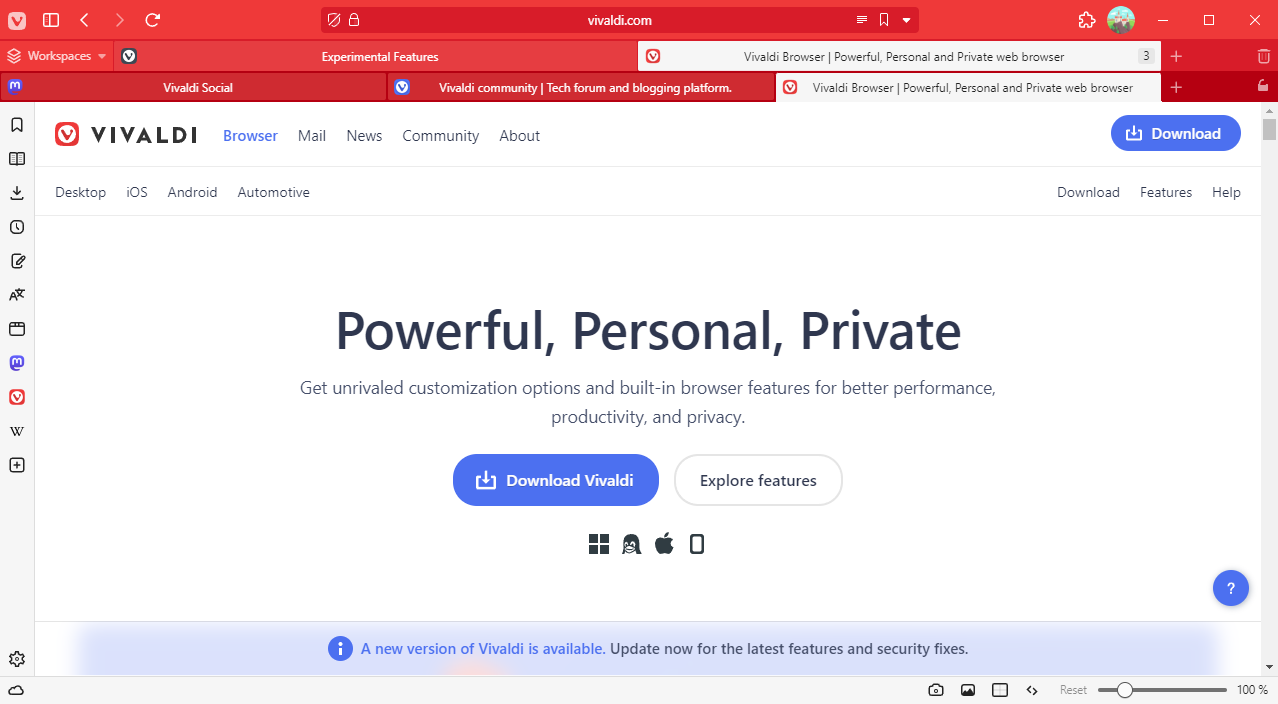
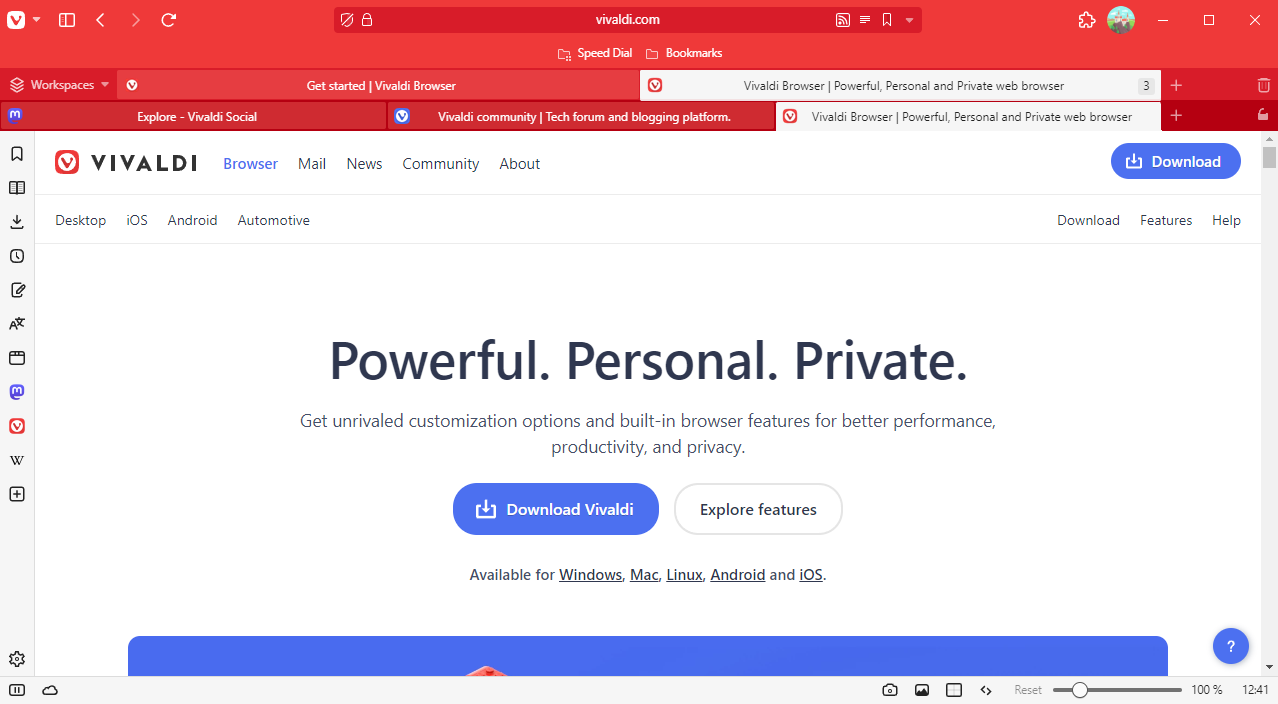
release: v1.1.0

diff --git a/antonio-lucio.scss b/antonio-lucio.scss
@@ -1,6 +1,6 @@
 /*
   Antonio Lucio
-  Version: 1.0.4
+  Version: 1.1.0
   Target Vivaldi Browser versions: 6.2
 
   Antonio Lucio is a CSS modification for Vivaldi Browser that likens its appearance to the web browser of that one company with a fruit in their logo.

diff --git a/documentation/command-chain-flags.md b/documentation/command-chain-flags.md
@@ -8,16 +8,6 @@ You can set up Command Chain Flags for specific features by following the steps 
 2. Give this command chain a name that matches the flag you would like to apply, for example `al-disable-tabbar-full-width`.
 3. [Open the Toolbar Editor](https://help.vivaldi.com/desktop/appearance-customization/edit-toolbars/#Customize_toolbars) and select "Command Chains" from the dropdown. Grab your created Command Chain and drag it into one of your toolbars.
 
-## Precedence Rules
-
-It is currently possible to have flags set that enable and disable the same feature at the same time. Additionally, each feature has a default state according to what I think is the best default experience for Antonio Lucio.
-
-For each flag, the following precedence rules apply:
-
-1. The `disable` flag always disables a feature.
-2. The `enable` flag enables a feature if the `disable` flag is not set.
-3. The default state of a feature applies if neither flag is set.
-
 ## Available Flags
 
 ### Grow width of tabs to occupy free space
@@ -28,6 +18,22 @@ To disable: `al-disable-tabbar-full-width`
 
 Individual tabs grow in width to occupy free space in their tab row.
 
+### Move bookmark bar over tab bar
+
+*Enabled by default.*
+
+To disable: `al-disable-bookmarkbar-over-tabbar`
+
+The bookmark bar is moved between the address bar and tab bar, and is also colored appropriately.
+
+### Center bookmark bar
+
+*Enabled by default.*
+
+To disable: `al-disable-bookmarkbar-center-display`
+
+Items inside the bookmark bar are centered.
+
 ### *(Coming soon!)* Show only domain name of URLs in address field
 
 *Enabled by default.*
@@ -35,3 +41,13 @@ Individual tabs grow in width to occupy free space in their tab row.
 To disable: `al-disable-addressfield-show-only-domain-name`
 
 The address field only shows the domain name of an URL when it is not in focus.
+
+## Precedence Rules
+
+It is currently possible to have flags set that enable and disable the same feature at the same time. Additionally, each feature has a default state according to what I think is the best default experience for Antonio Lucio.
+
+For each flag, the following precedence rules apply:
+
+1. The `disable` flag always disables a feature.
+2. The `enable` flag enables a feature if the `disable` flag is not set.
+3. The default state of a feature applies if neither flag is set.

diff --git a/documentation/changelog.md b/documentation/changelog.md
@@ -1,5 +1,24 @@
 # Changelog
 
+## v1.1.0 (2023-10-21)
+
+### Changes
+
+- The bookmark bar is now positioned between the address bar and the tab bar by default. Thanks [tojaroslaw](https://github.com/tojaroslaw) for suggesting this!
+- The Command Chain Flag `al-disable-bookmarkbar-over-tabbar` is now available to revert this bookmark bar placement.
+- Items inside the bookmark bar are now centered.
+  - *This change is inspired by the centered position of the favorites bar in Safari.*
+- The Command Chain Flag `al-disable-bookmarkbar-center-display` is now available to revert this behavior.
+- Documentation has been updated and simplified.
+- The demo image has been updated.
+
+### Fixes
+
+- The menu button is no longer partially covered; changes to the menu button width are now taken into account.
+- When the window is not maximized, the menu button will no longer be vertically misplaced.
+- Tab titles are now horizontally centered inside their tab once again.
+- The stack counter is now vertically centered inside the tab.
+
 ## v1.0.4 (2023-10-14)
 
 ### Fixes

diff --git a/README.md b/README.md
@@ -4,7 +4,7 @@
 
 Antonio Lucio is a CSS modification for [Vivaldi Browser](https://vivaldi.com) that likens its appearance to the web browser of that one company with a fruit in their logo.
 
-## Usage Notes
+## Requirements
 
 Antonio Lucio will only be applied when all of the following are true:
 
